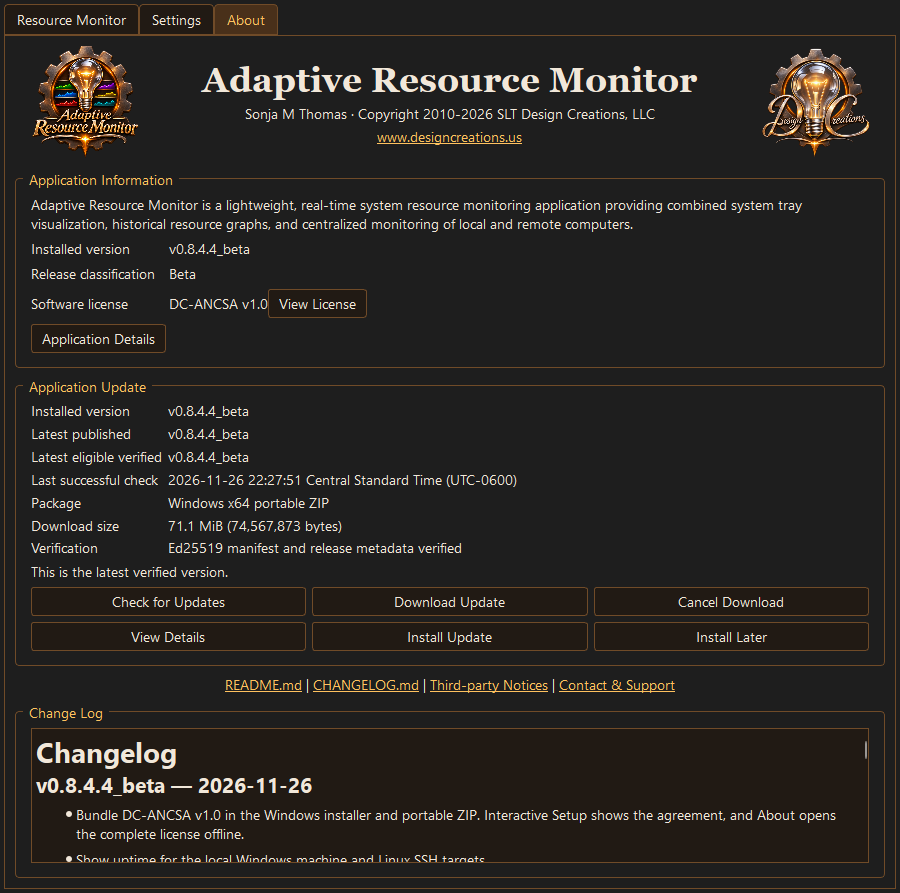
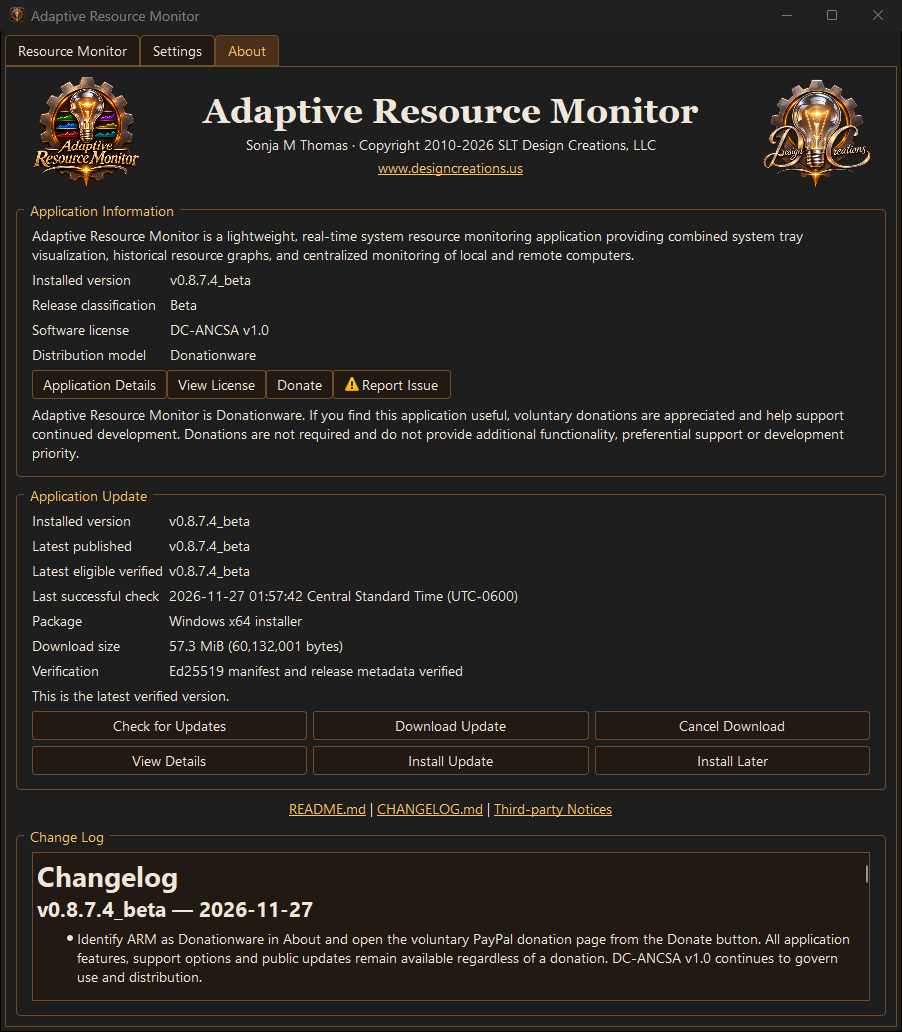
Document and show the accepted ARM Donationware release

Changed region(s): [[0.0, 0.0, 1.0, 1.0]]

diff --git a/README.md b/README.md
@@ -206,7 +206,16 @@ Open **About → Check for Updates** for a manual check. ARM also offers startup
 
 Ed25519 authenticates the signed release information, including package filenames, versions, sizes and SHA-256 hashes. SHA-256 checks the downloaded bytes against that information. Windows Authenticode is a separate mechanism for verifying executable publishers. [Security and verification](SECURITY.md)
 
-<img src="docs/screenshots/about-and-application-update.png" width="860" alt="About tab and Application Update controls showing the verified current release and its installed version">
+<img src="docs/screenshots/about-and-application-update.png" width="860" alt="Production About tab showing Donationware, the Donate button and verified ARM v0.8.7.4 Beta update status">
+
+<details>
+<summary>v0.8.7.4_beta release verification</summary>
+
+Publication #17 used signed Jenkins build #32 from commit `7234f828d74cf4407e620ccbce541885b6a6a8a8`. Each of the seven anonymous downloads on Gitea and GitHub matched the pinned archive. The Ed25519 signature and both Windows x64 package hashes verified. [Gitea release](https://phantom.zapto.org/gitea/sonja/Adaptive_Resource_Monitor/releases/tag/v0.8.7.4_beta) · [GitHub release](https://github.com/sonjamichelle/Adaptive_Resource_Monitor/releases/tag/v0.8.7.4_beta)
+
+The installed v0.8.6.4_beta updater verified the download, closed ARM, installed the signed update and restarted it as v0.8.7.4_beta. Production acceptance confirmed one running instance, live readings from five systems, and unchanged settings, machine selection, machine order, credential entries and SSH host keys. The installed About tab showed Donationware and the Donate button. The button's exact PayPal destination was verified from the installed code.
+
+</details>
 
 <details>
 <summary>Update availability and installation progress</summary>
@@ -266,6 +275,8 @@ ARM is Donationware. If you find the application useful, a voluntary donation he
 Donations confer no additional rights, preferential support, development priority, promised features, expedited fixes or deadlines. Commercial use and public distribution of derivatives require written permission under [DC-ANCSA v1.0](LICENSE.md). PayPal handles donations directly.
 
 [Donate with PayPal](https://www.paypal.com/donate/?hosted_button_id=SWTCLV72MYG3U)
+
+Starting with v0.8.7.4_beta, **About → Donate** opens the same PayPal page in your default browser.
 
 ## Contributing and support
 
